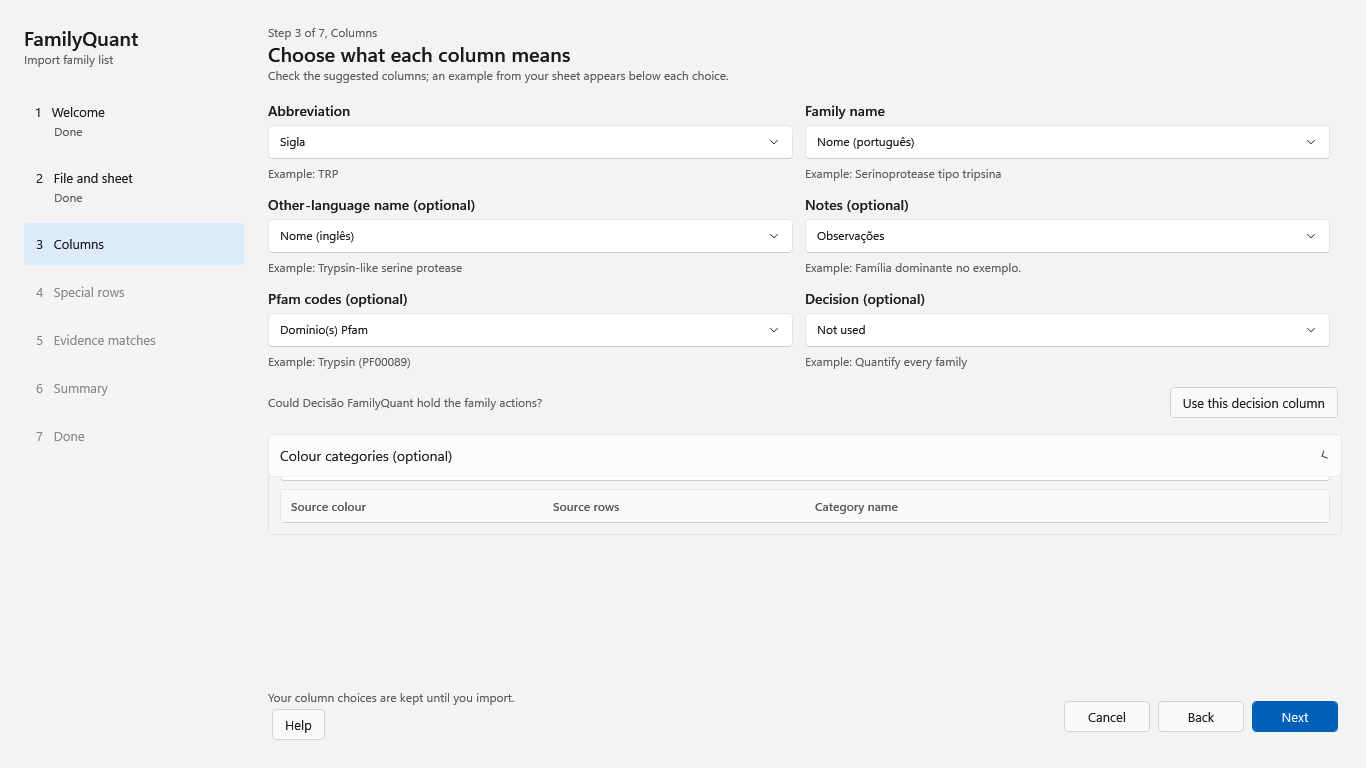
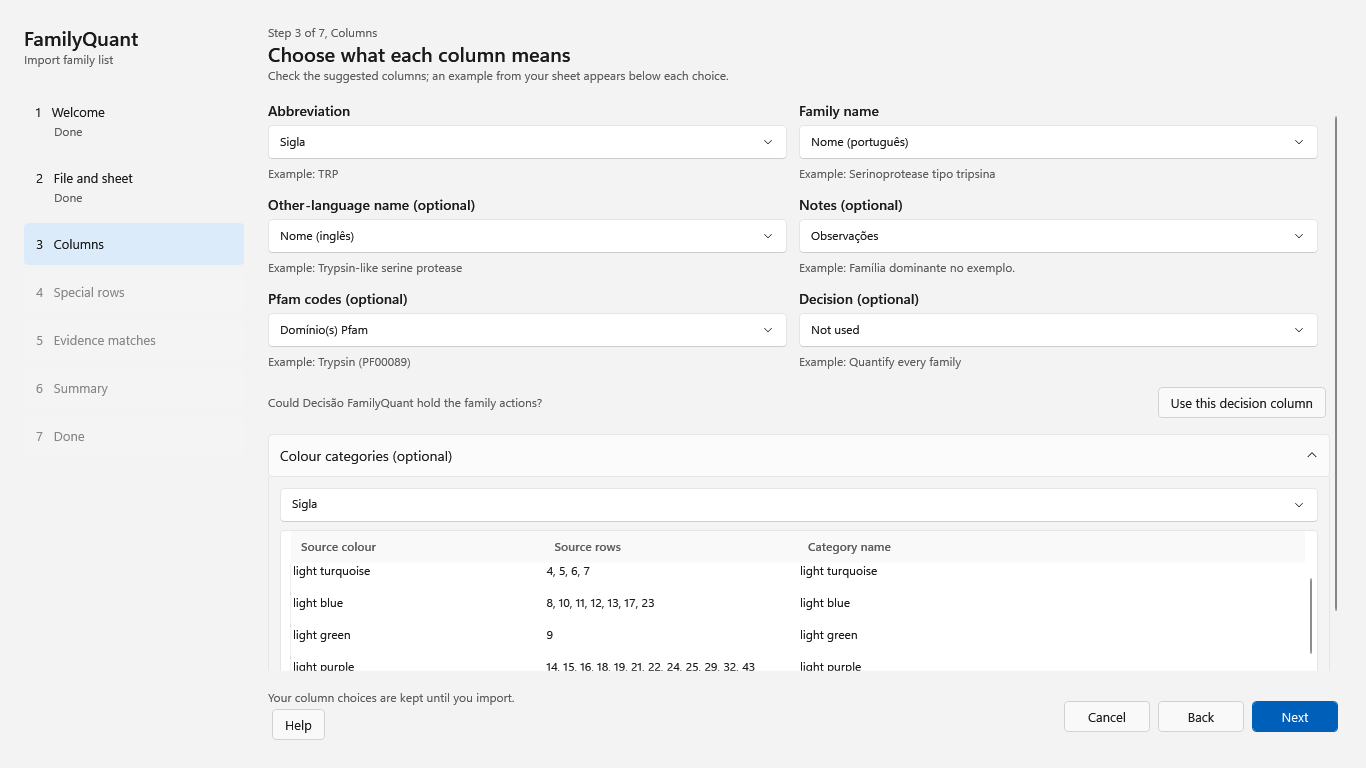
Z12p2c1 The import chapter follows the final wizard, with its pictures retaken
On the merge of fq/v2111-release 6654370d (Z12p5c, Z12p5d, Z12p5e) and fq/v2111-home 9150ebcc (Z12p5b, Z12p5g).

FamilyListImportGuide.cs: Columns names the decision-column question ("Could ... hold the family actions?", Use this
decision column, nothing mapped until pressed) and the one Quantify question of Next; the colour categories open by
themselves, each colour named for her with its plain name, never blocking Next, shown in the Summary's Colour column;
Reviewing decisions says there is no conditional action (the example's Condicional row is proposed as Quantify) and
that values already holding the program's labels are confirmed at once (DeepSeek on ff324bd0, Propose.cs:100-107);
Evidence matches gains the broad-label question of Z12p5i; Done names its next steps (Family checklist opens Group by
evidence, which starts Read database and scope by itself, then Update proposal) and that matching moves no protein.

Tests: every control the chapter names must be a label in the program's own sources, so a rename fails the check;
the chapter quotes the wizard's own lines; the dash check uses escapes. The capture picks Sigla as the colour column,
presses Use this decision column, checks the question, the plain names and the Summary's Colour column, and lets
opening sections settle before each picture. All nine pictures retaken on the merged build (03-columns and
06-summary changed; the others are byte-identical to the integrated set).

diff --git a/FamilyQuant/FamilyListImportGuide.cs b/FamilyQuant/FamilyListImportGuide.cs
@@ -12,7 +12,10 @@ public sealed record FamilyListImportGuideSection(string Key, string Title, stri
 /// <summary>
 /// The Help chapter "Import family list" (Z12p2c): one section for each page of File > Import family list,
 /// with a picture of that page taken on the fictitious example list (Try with the example), plus the two routes
-/// that save evidence matches later. Wording follows the wizard and the matching window's own Help.
+/// that save evidence matches later. Wording follows the wizard and the matching window's own Help; Z12p2c1 brings it
+/// to the final wizard (the decision-column question, colours named by the program, no conditional action, labels the
+/// program already uses confirmed at once, the Done page's next steps). The suite checks every control it names
+/// against the program's own sources.
 /// </summary>
 public static class FamilyListImportGuide
 {
@@ -40,14 +43,16 @@ public static class FamilyListImportGuide
         new FamilyListImportGuideSection("columns", "3. Columns", "03-columns.png", "Each meaning with the column proposed for it and an example from the sheet.", new[]
         {
             "For each meaning, choose the column of your sheet that holds it; an example from your sheet appears below each choice. Abbreviation and Family name are required. Other-language name, Notes, Pfam codes and Decision are optional, and every original column is kept anyway.",
-            "A repeated-label column may be offered as a hint. Use this decision column selects it for review; the hint never maps or confirms an action by itself. Without a Decision column, Next asks you to confirm Quantify for every family, with No keeping you on Columns. Acceptance is remembered for this source until its Decision mapping changes.",
-            "Colour categories (optional) opens when the source has fills. Choose a source column to keep its fills as text categories; each starts with its plain source name, which you can rename. An empty edit restores that name, so optional category names never block Next. Summary shows the retained category; it is never a grouping or quantitation rule.",
+            "When no column is chosen for Decision and one column holds a few short labels repeated over many rows, the page can ask whether that column says what to do with each family; in the example it asks: Could Decisão FamilyQuant hold the family actions? It is only a question. Use this decision column chooses that column and opens its values for your review; until you press it, nothing is mapped.",
+            "Without a Decision column every family is Quantify, so Next asks once: Quantify every family for this import? No keeps you on Columns. Your answer holds for this sheet until you change the Decision column.",
+            "When the sheet has coloured cells, Colour categories (optional) opens by itself. Choose the column whose colours mean something, like Sigla in the example: each colour is listed with its rows and named for you with its plain name, such as light blue. Rename a category if you like; clearing a name brings the plain name back, so the colours never hold up Next. The category is kept as text with each family and shown in the Colour column of the Summary; it never decides what happens to a family.",
         }),
         new FamilyListImportGuideSection("decisions", "3. Reviewing decisions", "03-columns-decisions.png", "One line per decision written in the sheet, with its rows and the proposed action.", new[]
         {
-            FamilyListImportHelp.DecisionsSummary,
-            "When you choose a Decision column, the page becomes Review spreadsheet decisions: one line for each different value written in that column, the rows that use it, and the proposed action: Quantify, Report under others, Not a family, or Merge into family with the abbreviation to merge into.",
-            "Check each line, change what is wrong, and press Confirm these actions. Next stays disabled until the decisions are confirmed, so no proposal is accepted for you. Back to columns returns without confirming, and Review decision values opens the list again.",
+            "When you choose a Decision column, the page becomes Review spreadsheet decisions: one line for each different value written in that column, the rows that use it, and the proposed action: Quantify, Report under others, Not a family, or Merge into family with the abbreviation to merge into. The line under the title says it in short: " + FamilyListImportHelp.DecisionsSummary,
+            "There is no conditional action. A condition written in the sheet, like Condicional (só na fração solúvel) in the example, is proposed as Quantify; choose the action that fits now. The value written in your sheet stays with each family as its source label.",
+            "A cell that already holds one of the program's own labels, Quantify, Report under others or Not a family, or Merge into followed by an abbreviation of your list, is confirmed at once. When every value is like that, there is nothing to review.",
+            "Check each other line, change what is wrong, and press Confirm these actions. Next stays disabled until every value is confirmed, and changing an action or its abbreviation clears that line's Confirmed tick, so no proposal is accepted for you. Back to columns returns without confirming, and Review decision values opens the list again.",
         }),
         new FamilyListImportGuideSection("special", "4. Special rows", "04-special-rows.png", "A cell naming four families, with its choice of how to import it.", new[]
         {
@@ -64,6 +69,7 @@ public static class FamilyListImportGuide
             "For each family, FamilyQuant suggests labels from the evidence already stored in this project, such as UniProt families and keywords, that share words with the family's names. Nothing is ticked for you.",
             "Counts are database entries for each suggestion, not abundance; suggestions can overlap and must not be added together.",
             "Tick the labels that describe the family and press Use selected matches, or press Skip this family. Continue without matches skips matching for every family; you can match later. On a new import of the same list, matches confirmed before show as Kept from previous panel. The wizard never downloads evidence and never assigns proteins.",
+            "A broad label can describe most of the database rather than one family. If a ticked label covers more than half of the database's entries, Use selected matches asks once, naming the count, before it keeps the match.",
         }),
         new FamilyListImportGuideSection("later", "Saving matches later", "", "", new[]
         {
@@ -73,15 +79,15 @@ public static class FamilyListImportGuide
         }),
         new FamilyListImportGuideSection("summary", "6. Summary", "06-summary.png", "The last check before anything changes.", new[]
         {
-            "The last page before anything changes. Name the panel, then read the line of counts (families, rows split, skipped and renamed, matching choices), the source sheet, and the panel this import replaces. The table lists every family with its decision, source category and matching choice; View source notes shows the original columns kept for it.",
+            "The last page before anything changes. Name the panel, then read the line of counts (families, rows split, skipped and renamed, matching choices), the source sheet, and the panel this import replaces. The table lists every family with its names, decision, colour category (in the Colour column) and matching choice; View source notes shows the original columns kept for it.",
             "Import replaces the current panel, if any, in one step. Just before, the workbook and the project are checked again; if either changed, nothing is imported. Back keeps your choices, and Cancel changes nothing.",
         }),
         new FamilyListImportGuideSection("done", "7. Done", "07-done.png", "The list is imported; the workbook and the protein grouping are unchanged.", new[]
         {
             "The family list is imported. The workbook and the protein grouping are unchanged, and the project is not saved yet: File > Save keeps the panel with it.",
-            FamilyListImportHelp.DoneNext,
-            FamilyListImportHelp.MatchingEffect,
-            "Family checklist goes to the Family checklist of Group by evidence, where you review which proteins belong in each family. Undo import restores the previous panel while the import is still the latest change. Close keeps the imported panel.",
+            "The line under the title names the next steps: " + FamilyListImportHelp.DoneNext + " Family checklist closes the wizard and opens Group by evidence, which starts Read database and scope by itself. When that read is done, press Update proposal; the review then shows its Family checklist tab, where you review which proteins belong in each family.",
+            "The page also says: " + FamilyListImportHelp.MatchingEffect + " Importing the list and confirming matches move no protein by themselves.",
+            "Undo import restores the previous panel while the import is still the latest change. Close keeps the imported panel.",
         }),
         new FamilyListImportGuideSection("keyboard", "Keyboard", "", "", new[]
         {

diff --git a/FamilyQuant.Tests/Program.FamilyListImportGuide.cs b/FamilyQuant.Tests/Program.FamilyListImportGuide.cs
@@ -23,18 +23,18 @@ internal static partial class Program
         }),
     ];
 
-    /// <summary>Z12p2c: the Help chapter "Import your family list", one part per wizard page with its picture, the
+    /// <summary>Z12p2c: the Help chapter "Import family list", one part per wizard page with its picture, the
     /// routes that save matches later, and the window that shows it.</summary>
     private static void FamilyListImportGuideTests(string? output = null)
     {
-        Section("Import guide: the Help chapter for File > Import family panel (Z12p2c)");
+        Section("Import guide: the Help chapter for File > Import family list (Z12p2c, Z12p2c1)");
         EnsureApplication();
         var sections = FamilyListImportGuide.Sections;
         string text = FamilyListImportGuide.Text();
         Check("the guide uses the current import and checklist names", FamilyListImportGuide.Title == "Import family list"
             && !text.Contains("Import family panel", StringComparison.Ordinal) && !text.Contains("Panel checklist", StringComparison.Ordinal));
-        Check("the guide describes optional source categories and explicit default decisions", text.Contains("source name", StringComparison.Ordinal)
-            && text.Contains("Next asks", StringComparison.Ordinal) && text.Contains(FamilyListImportHelp.DecisionsSummary, StringComparison.Ordinal));
+        Check("the guide describes optional source categories and explicit default decisions", text.Contains("Colour categories (optional) opens by itself", StringComparison.Ordinal)
+            && text.Contains("Next asks once", StringComparison.Ordinal) && text.Contains(FamilyListImportHelp.DecisionsSummary, StringComparison.Ordinal));
         Check("the guide retains the Done prerequisites and matching boundary", text.Contains(FamilyListImportHelp.DoneNext, StringComparison.Ordinal)
             && text.Contains(FamilyListImportHelp.MatchingEffect, StringComparison.Ordinal));
         Check("one part for each of the seven wizard pages, in order", Enumerable.Range(1, 7).All(n => sections.Any(s => s.Title.StartsWith(n + ".", StringComparison.Ordinal)))
@@ -61,16 +61,35 @@ internal static partial class Program
             "Original source row", "Use this row as", "Use this choice", "Needs a choice", "Keep as one family", "One family per name",
             "One group reported under others", "Keep or rename this row", "Skip this row", "Skipped", "Use selected matches", "Skip this family",
             "Continue without matches", "Kept from previous panel", "View source notes", "Import", "Family checklist", "Undo import", "Close",
-            "Use this decision column", "Match stored names", "Apply grouping", "Apply panel", "File > Save",
+            "Use this decision column", "Match stored names", "Apply grouping", "Apply panel", "Review spreadsheet decisions",
+            "Colour categories (optional)", "Colour", "Group by evidence", "Read database and scope", "Update proposal", "Place outside matches by hand",
+            "Import family list",
         };
-        Check("the chapter names the wizard's controls and choices with the program's own words", labels.All(text.Contains),
+        Check("the chapter names the wizard's controls and choices with the program's own words", labels.All(text.Contains) && text.Contains("File > Save", StringComparison.Ordinal),
             string.Join(", ", labels.Where(l => !text.Contains(l))));
+        // Z12p2c1: each of those words is still a label of the program, a string of its own sources, so a renamed control fails here.
+        string repository = GoldenNumbers.FindRepository();
+        string program = string.Concat(new[] { "FamilyListImportWindow.xaml", "FamilyListImportViewModel.cs", "FamilyListImportViewModel.Rows.cs",
+                "FamilyListImportViewModel.Commit.cs", "FamilyListImportModels.cs", "SuperClusterPreviewWindow.xaml", "PanelEditorWindow.xaml",
+                "MainWindow.xaml", "ClusterGenerationControl.xaml" }
+            .Select(name => File.ReadAllText(Path.Combine(repository, "FamilyQuant", name))));
+        Check("every control the chapter names is a label in the program's sources", labels.All(l => program.Contains("\"" + l + "\"", StringComparison.Ordinal)
+            || program.Contains("\"" + l + "...\"", StringComparison.Ordinal)),
+            string.Join(", ", labels.Where(l => !program.Contains("\"" + l + "\"", StringComparison.Ordinal) && !program.Contains("\"" + l + "...\"", StringComparison.Ordinal))));
+        Check("the chapter quotes the wizard's own lines: decisions, the Quantify question and the Done page",
+            text.Contains(FamilyListImportHelp.DecisionsSummary, StringComparison.Ordinal) && text.Contains(FamilyListImportHelp.DoneNext, StringComparison.Ordinal)
+            && text.Contains(FamilyListImportHelp.MatchingEffect, StringComparison.Ordinal)
+            && program.Contains("Quantify every family for this import?", StringComparison.Ordinal) && text.Contains("Quantify every family for this import?", StringComparison.Ordinal)
+            && program.Contains("\"Could \" + DecisionHint + \" hold the family actions?\"", StringComparison.Ordinal) && text.Contains("hold the family actions?", StringComparison.Ordinal));
+        Check("the chapter says there is no conditional action and that the program's own labels are confirmed at once",
+            text.Contains("There is no conditional action", StringComparison.Ordinal) && text.Contains("is confirmed at once", StringComparison.Ordinal)
+            && text.Contains("named for you with its plain name", StringComparison.Ordinal) && text.Contains("never hold up Next", StringComparison.Ordinal));
         Check("both later routes for saving matches are there, with and without grouping proteins",
             text.Contains("Apply grouping and File > Save keep the choices made in that review", StringComparison.Ordinal)
             && text.Contains("press Edit current panel, select the family, use Match stored names, then Apply panel and File > Save", StringComparison.Ordinal));
         Check("D21: nothing in the chapter names an organism, a venom or a sample's numbers", !DatabaseSpecificCopy.IsMatch(text) && !HistoricalSampleCopy.IsMatch(text),
             DatabaseSpecificCopy.Match(text).Value + HistoricalSampleCopy.Match(text).Value);
-        Check("no em or en dash in the chapter", !text.Contains('–') && !text.Contains('—'));
+        Check("no em or en dash in the chapter", !text.Contains('\u2013') && !text.Contains('\u2014'));
         string index = File.ReadAllText(Path.Combine(GoldenNumbers.FindRepository(), "docs", "INDEX.md"));
         Check("docs/INDEX.md lists the command that takes the chapter's pictures", index.Contains("`--import-guide-screens <output-dir> [--dark]`", StringComparison.Ordinal));
         FamilyListImportHelpRouteTests(output);

diff --git a/FamilyQuant.Tests/Program.ImportGuideScreens.cs b/FamilyQuant.Tests/Program.ImportGuideScreens.cs
@@ -13,7 +13,9 @@ namespace FamilyQuant.Tests;
 
 // Z12p2c capture of the Help chapter pictures: the Import family list wizard on the neutral example list with a small
 // invented project, 1366 x 768, one picture per page (light by default, --dark for the website's dark set). The Workbook
-// box is shown with a generic documents path, because the real path holds this computer's temporary folder.
+// box is shown with a generic documents path, because the real path holds this computer's temporary folder. Z12p2c1:
+// the Columns page with its decision-column question and the fills named as colour categories, and the decisions opened
+// through Use this decision column.
 internal static partial class Program
 {
     [TestCommandTable]
@@ -62,7 +64,8 @@ internal static partial class Program
             WindowStyle = WindowStyle.None, ResizeMode = ResizeMode.NoResize, ShowActivated = false, ShowInTaskbar = false };
         void Shot(string name)
         {
-            PumpDispatcher();
+            // Let opening sections (the colour categories) finish their layout before the picture.
+            PumpDispatcher(); System.Threading.Thread.Sleep(400); PumpDispatcher();
             var content = (FrameworkElement)window.Content; content.Measure(new Size(1366, 768)); content.Arrange(new Rect(0, 0, 1366, 768)); content.UpdateLayout();
             PumpDispatcher();
             Directory.CreateDirectory(output);
@@ -79,12 +82,17 @@ internal static partial class Program
             Shot("02-file-and-sheet");
             Check("guide: the example opens on its sheet with header row 3", model.Page == 1 && model.Preview?.ProposedHeaderRow == 3);
             ((Button)window.FindName("ForwardButton")).RaiseEvent(new RoutedEventArgs(Button.ClickEvent)); PumpDispatcher();
+            // Z12p2c1: the abbreviation cells carry the example's fills, so they become colour categories with their plain names.
+            model.ColorColumn!.Header = model.ColorColumn.Headers.First(h => h == "Sigla"); PumpDispatcher();
+            Check("guide: the Columns page asks about the decision column and names each fill for her",
+                model.HasDecisionHint && model.DecisionHint.StartsWith("Decis", StringComparison.Ordinal)
+                && model.SourceColorChoices.Count > 0 && model.SourceColorChoices.All(c => c.Label == c.ColorName) && model.CanNext,
+                model.DecisionHint + "; " + string.Join(", ", model.SourceColorChoices.Select(c => c.ColorName + "=" + c.Label)));
             Shot("03-columns");
-            var decision = model.Columns.Single(c => c.Role == PanelImportFields.Decision);
-            decision.Header = decision.Headers.First(h => h.Contains("Decis", StringComparison.OrdinalIgnoreCase));
-            PumpDispatcher();
+            ((Button)window.FindName("UseDecisionHintButton")).RaiseEvent(new RoutedEventArgs(Button.ClickEvent)); PumpDispatcher();
             Shot("03-columns-decisions");
-            Check("guide: eight decision values to review", model.Decisions.Count == 8 && model.ReviewingDecisions);
+            Check("guide: Use this decision column opens eight decision values to review",
+                model.Columns.Single(c => c.Role == PanelImportFields.Decision).Header == model.DecisionHint && model.Decisions.Count == 8 && model.ReviewingDecisions);
             model.ConfirmDecisions();
             FinishReviewWork(async () => { await model.NextAsync(); }); PumpDispatcher();
             model.SelectedSpecialRow = model.SpecialRows.Single(r => r.SeveralNames && r.Parts.Count == 4 && r.Blocking);
@@ -110,6 +118,7 @@ internal static partial class Program
             while (model.MatchFamilies.FirstOrDefault(f => !f.Decided) is { } next) { model.SelectedMatchFamily = next; model.SkipMatch(); }
             FinishReviewWork(async () => { await model.NextAsync(); }); PumpDispatcher();
             model.PanelName = "Example family list";
+            Check("guide: Summary shows the colour category of the families that have one", model.SummaryFamilies.Any(f => !string.IsNullOrEmpty(f.Color)));
             Shot("06-summary");
             FinishReviewWork(async () => { await model.NextAsync(); }); PumpDispatcher();
             Shot("07-done");
